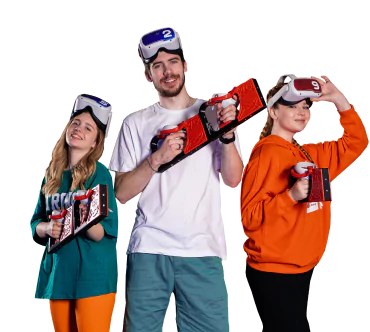
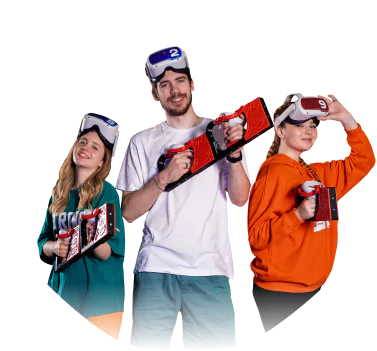
commit

diff --git a/components/dataForm/data.jsx b/components/dataForm/data.jsx
@@ -28,9 +28,9 @@ export const dataForm = [
                         </svg>
                     </div>
                 </button>,
-        buttond: <button className="header-button" disabled>
+        buttond: <button className="header-button header-buttond" disabled>
         <div className="header-button-text">
-        <span><span className="getPresent">Введите корректные данные</span></span>
+        <span><span className="getPresent">ПОЛУЧИТЬ ПРЕЗЕНТАЦИЮ</span><br /> <span className="getPlus">+ комплект материалов</span></span>
         </div>
         </button>
     },
@@ -50,9 +50,9 @@ export const dataForm = [
                     <span><span className="getPresent">ПОЗВОНИТЕ МНЕ</span></span>
                     </div>
                 </button>,
-        buttond: <button className="header-button" disabled>
+        buttond: <button className="header-button header-buttond" disabled>
             <div className="header-button-text">
-            <span><span className="getPresent">Введите корректные данные</span></span>
+            <span><span className="getPresent">ПОЗВОНИТЕ МНЕ</span></span>
             </div>
         </button>
     },
@@ -84,9 +84,9 @@ export const dataForm = [
         city: <input type="text" placeholder='Ваш город' />,
         mail: <input type="email" placeholder='E-mail для отправки материалов' />,
         time: <input type="text" placeholder='Предпочтительное время для связи' />,
-        buttond: <button className="header-button" disabled>
+        buttond: <button className="header-button header-buttond" disabled>
         <div className="header-button-text">
-        <span><span className="getPresent">Введите корректные данные</span></span>
+        <span><span className="getPresent">СКАЧАТЬ БИЗНЕС-ПЛАН</span><br /> <span className="getPlus">+ фин.модель</span></span>
         </div>
         </button>
     },
@@ -106,9 +106,9 @@ export const dataForm = [
         city: <input type="text" placeholder='Ваш город' />,
         mail: <input type="email" placeholder='E-mail для отправки материалов' />,
         time: <input type="text" placeholder='Предпочтительное время для связи' />,
-        buttond: <button className="header-button" disabled>
+        buttond: <button className="header-button header-buttond" disabled>
         <div className="header-button-text">
-        <span><span className="getPresent">Введите корректные данные</span></span>
+        <span><span className="getPresent">ПРОВЕРИТЬ СВОЙ ГОРОД</span></span>
         </div>
         </button>
     },
@@ -128,9 +128,9 @@ export const dataForm = [
         city: <input type="text" placeholder='Ваш город' />,
         mail: <input type="email" placeholder='E-mail для отправки материалов' />,
         time: <input type="text" placeholder='Предпочтительное время для связи' />,
-        buttond: <button className="header-button" disabled>
+        buttond: <button className="header-button header-buttond" disabled>
         <div className="header-button-text">
-        <span><span className="getPresent">Введите корректные данные</span></span>
+        <span><span className="getPresent">ЗАПИСАТЬСЯ НА<br />ВСТРЕЧУ ИЛИ ЗВОНОК</span></span>
         </div>
         </button>
     },

diff --git a/components/Header.jsx b/components/Header.jsx
@@ -21,7 +21,7 @@ const Header = () => {
     <>
             <header>
                 <div className='header container'>
-                    <Link href='#'>
+                    <Link href='/'>
                     <div className='header-left cursor'>
                         <div className='header-logo'>
                             <Image src={logo} alt='logo' quality={100} />
@@ -67,9 +67,9 @@ const Header = () => {
                 <div className='header-bottom'>
                     <div className="container">
                         <nav className='nav'>
-                            <Link href="#whatIs"><a><div className='nav-item'>Что такое ZAGA-GAME?</div></a></Link>
-                            <Link href="#numbers"><a><div className='nav-item'>Франшиза в цифрах</div></a></Link>
-                            <Link href="#withUs"><a><div className='nav-item'>Работая с нами вы получаете</div></a></Link>
+                            <Link href="/#whatIs"><a><div className='nav-item'>Что такое ZAGA-GAME?</div></a></Link>
+                            <Link href="/#numbers"><a><div className='nav-item'>Франшиза в цифрах</div></a></Link>
+                            <Link href="/#withUs"><a><div className='nav-item'>Работая с нами вы получаете</div></a></Link>
                             {/* <Link href="#comments"><a><div className='nav-item'>Отзывы наших партнёров</div></a></Link> */}
                         </nav>
                     </div>
@@ -78,9 +78,9 @@ const Header = () => {
                 <div className='header-bottom burger-bottom'>
                     <div className="container">
                         <nav className='nav vertical'>
-                            <Link href="#whatIs"><a onClick={() => {setToggler(!toggler)}}><div className='nav-item'>Что такое ZAGA-GAME?</div></a></Link>
-                            <Link href="#numbers"><a  onClick={() => {setToggler(!toggler)}}><div className='nav-item'>Франшиза в цифрах</div></a></Link>
-                            <Link href="#withUs"><a  onClick={() => {setToggler(!toggler)}}><div className='nav-item'>Работая с нами вы получаете</div></a></Link>
+                            <Link href="/#whatIs"><a onClick={() => {setToggler(!toggler)}}><div className='nav-item'>Что такое ZAGA-GAME?</div></a></Link>
+                            <Link href="/#numbers"><a  onClick={() => {setToggler(!toggler)}}><div className='nav-item'>Франшиза в цифрах</div></a></Link>
+                            <Link href="/#withUs"><a  onClick={() => {setToggler(!toggler)}}><div className='nav-item'>Работая с нами вы получаете</div></a></Link>
                             {/* <Link href="#comments"><a  onClick={() => {setToggler(!toggler)}}><div className='nav-item'>Отзывы наших партнёров</div></a></Link> */}
                         </nav>
                     </div>

diff --git a/components/forms/Form1.jsx b/components/forms/Form1.jsx
@@ -3,6 +3,7 @@ import { UserSlice } from '../../store/reducers/UserSlice'
 import FormFinal from './FormFinal';
 import InputMask from "react-input-mask";
 import { useEffect, useState } from 'react';
+import Link from 'next/link';
 
 
 const Form1 = (props) => {
@@ -34,7 +35,7 @@ const Form1 = (props) => {
 
     const [phonik, setPhonik] = useState('')
     const [phonikDirty, setPhonikDirty] = useState(false)
-    const [phonikError, setPhonikError] = useState('Номер телефона не может быть пустым')
+    const [phonikError, setPhonikError] = useState('Поле с номером не заполненоaaaa')
     const [formValid, setFormValid] = useState(false)
 
     useEffect(() => {
@@ -48,7 +49,7 @@ const Form1 = (props) => {
     const phonikHandler = (e) => {
         setPhonik(e.target.value)
         if (e.target.selectionEnd < 18) {
-            setPhonikError('Некорректный телефон')
+            setPhonikError('Поле с номером не заполнено')
         } else {
             setPhonikError('')
         }
@@ -75,18 +76,18 @@ const Form1 = (props) => {
             <div className="pos-r">
                 {props.h2}
                 {props.h3}
+                {(phonikDirty && phonikError) && <div style={{color: 'red'}}>{phonikError}</div> }
                 <form action="" onSubmit={func2}>
                     <div className="flex">
                         <input type="text" placeholder='Как к вам обращаться?' />
-                        <InputMask onChange={e => phonikHandler(e)} name='phone' type='phone' value={phonik} onBlur={e => blurHandler(e)} mask="+7 (999) 999-99-99" maskChar={null} placeholder={`Ваш номер телефона*`} />
-                        {(phonikDirty && phonikError) && <div style={{color: 'red'}}>{phonikError}</div> }
+                        <InputMask onChange={e => phonikHandler(e)} name='phone' type='phone' value={phonik} onBlur={e => blurHandler(e)} mask="+7 (999) 999-99-99"  maskChar={null} placeholder={`Ваш номер телефона*`} />
                     </div>
                     {props.mail}
                     {props.city}
                     {props.time}
 
                     <div className="text">
-                        <span>Отправляя форму, вы соглашаетесь с <a href="" className='policy'>политикой конфиденциальности</a></span>
+                        <span>Отправляя форму, вы соглашаетесь с <Link href="/policy"><a политикой className='policy'>политикой конфиденциальности</a></Link></span>
                     </div>
                     {!formValid ? props.buttond : props.button}
                 </form>

diff --git a/styles.css b/styles.css
@@ -307,6 +307,68 @@ header.header-bot {
     width: 66%;
 }
 
+.num-third-img {
+    position: relative;
+}
+
+@keyframes moving {
+    100% {transform: rotate(-360deg);}
+}
+.num-third-img .circle {
+    animation: moving 8s infinite linear;
+    
+}
+
+.num-third-img > span:first-child  {
+    position: absolute!important;
+    z-index: -2;
+}
+
+.pos-aaa {
+    position: relative;
+}
+
+.pos-aa {
+    position: absolute;
+}
+
+.pos-aa .circle {
+    animation: moving 8s infinite linear;
+    
+}
+
+.pos-aa > span:first-child  {
+    position: absolute!important;
+    z-index: -2;
+}
+
+.wwu-bg {
+    background-image: url('./images/workwithus-bg.webp');
+    z-index: -1;
+    background-position: 100% 50%;
+    background-size: cover;
+}
+
+.video-block > div:first-child, .video-block iframe {
+    box-shadow: 0px 0px 80px rgba(180, 154, 248, 0.5);
+    border-radius: 20px;
+}
+
+.video-block > div:first-child > div {
+    background-color: transparent;
+}
+
+.video-block > div:first-child > div::after {
+    content: url('./images/play-button.svg');
+    top: 0;
+    left: 25%;
+    border-width: 0;
+}
+
+.header-button.header-buttond::before, .header-button.header-buttond:hover::before {
+    background: gray;
+}
+
 .header-bottom {
     background: #000;
 }
@@ -1044,6 +1106,7 @@ input, textarea {
     font-size: 16px;
     line-height: 125%;
     display: flex;
+    color: black;
     align-items: flex-end;
 }
 
@@ -1279,6 +1342,11 @@ input::placeholder {
     display: flex;
     align-items: flex-end;
     color: #888888;
+}
+input::placeholder::after {
+    color: #E32966;
+    content: '*';
+    opacity: 1;
 }
 
 .form .flex {

diff --git a/components/WorkWithUs.jsx b/components/WorkWithUs.jsx
@@ -11,6 +11,7 @@ import img9 from '../images/withUs/9.svg'
 import img10 from '../images/withUs/10.svg'
 import img11 from '../images/withUs/11.svg'
 import img12 from '../images/withUs/12.png'
+import circle from '../images/workwithus-circle.webp'
 
 import { useAppDispatch, useAppSelector } from '../hooks/redux'
 import { UserSlice } from '../store/reducers/UserSlice'
@@ -129,11 +130,13 @@ const WorkWithUs = () => {
                     </div>
                     <span className="text">Помощь с подбором и анализом помещения в Вашем городе</span>
                 </div>
-                <div className="img12">
-                <div className="header__content-banner">
-                        <div className="bg_rotate"></div>
-                            <Image src={img12} />
-                    </div>
+                <div className="img12 pos-aaa">
+
+                            <div className="pos-aa">
+                            <Image src={circle} className='circle' />
+                            <Image src={img12} className='wwu-bg' />
+                            </div>
+
                 </div>
             </div>
             <div className='df-jcc'>

diff --git a/components/Numbers.jsx b/components/Numbers.jsx
@@ -1,5 +1,6 @@
 import Image from "next/image"
 import numImg from '../images/numbers-img.webp'
+import circle from '../images/circle-around.webp'
 
 import { useAppDispatch, useAppSelector } from '../hooks/redux'
 import { UserSlice } from '../store/reducers/UserSlice'
@@ -67,6 +68,7 @@ const Numbers = () => {
                     <div></div>
                 </div>
                 <div className="num-third-img">
+                        <Image src={circle} className='circle' />
                         <Image src={numImg} alt='img' />
                 </div>
             </div>
